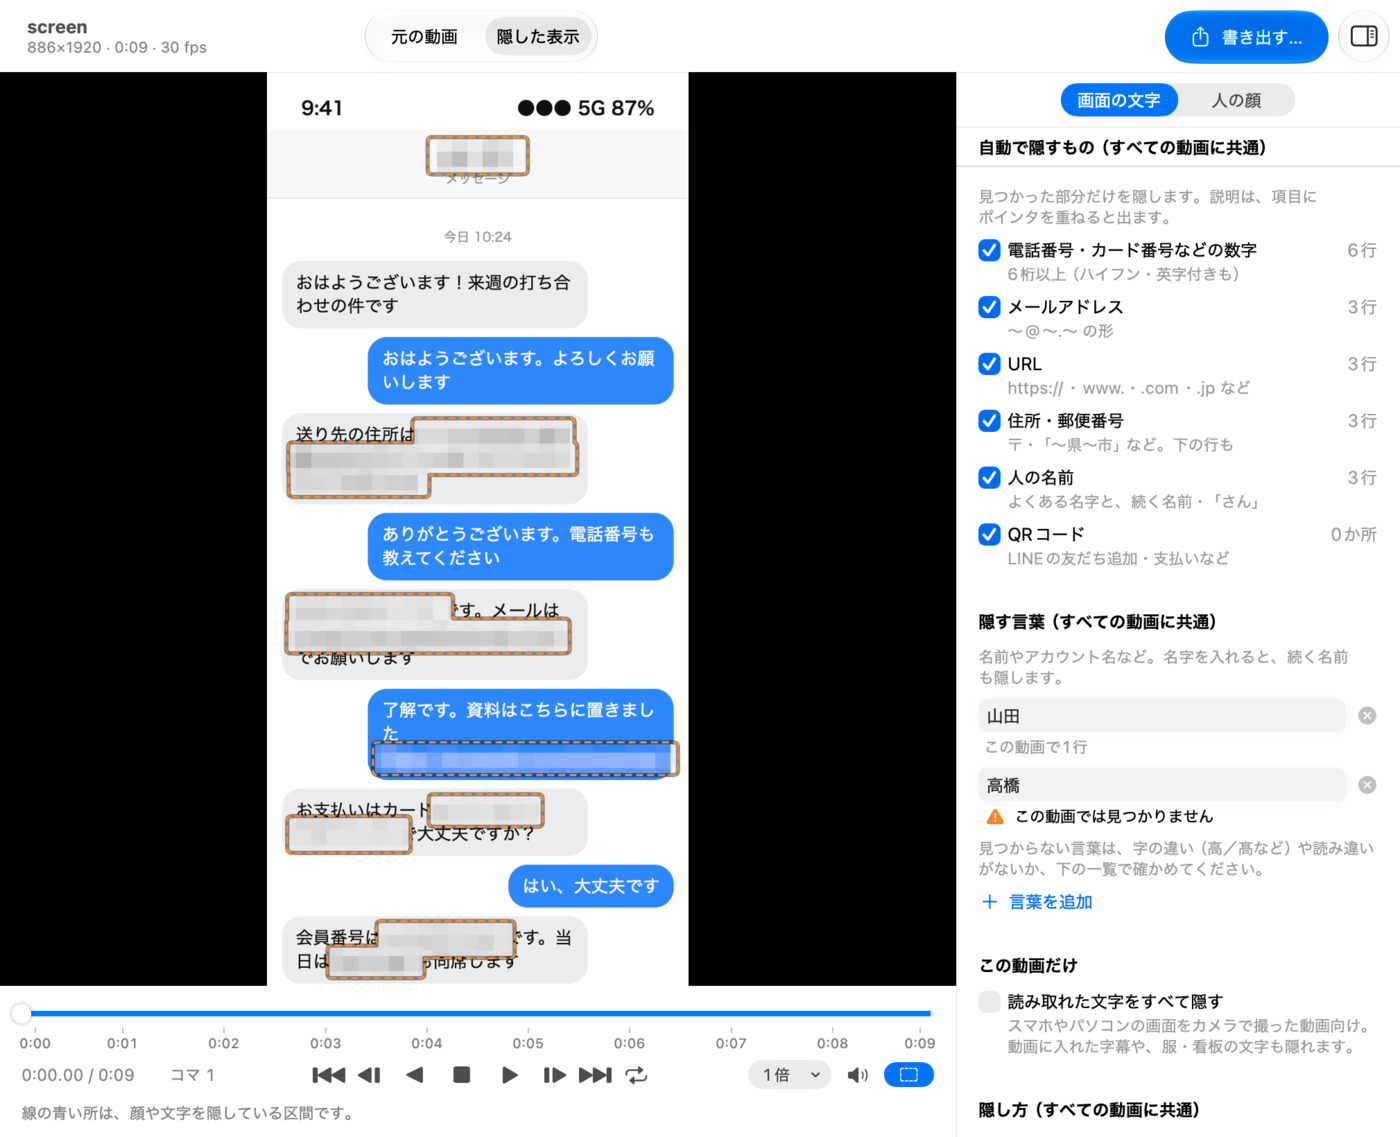
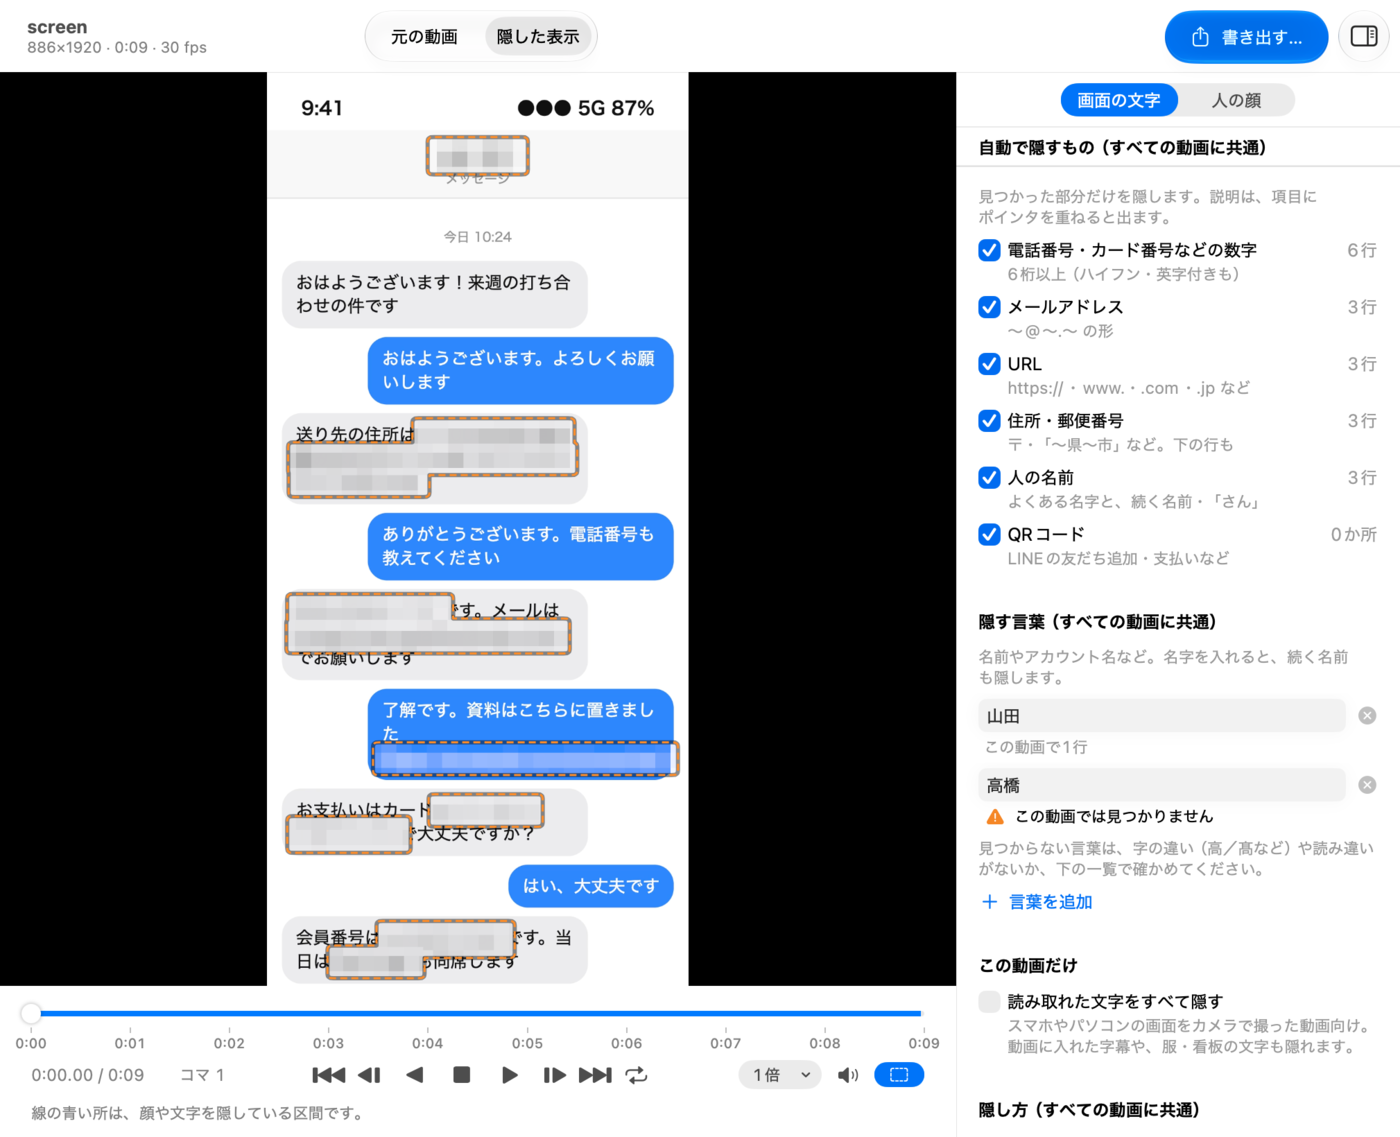
chore(release): v1.9.1 再生バーの端のずれを直し、右の欄の説明を減らす
版を 1.9.1（CFBundleVersion 14）に上げ、リリースノートを足す。
README のアプリ画面と画面の文字の画像を、新しい画面で撮り直す（架空データの
画面録画と、利用条件を確認済みの素材）。

diff --git a/.github/release-notes/v1.9.1.md b/.github/release-notes/v1.9.1.md
@@ -1,0 +1,20 @@
+再生バーの端のずれを直し、右の欄をさらにすっきりさせました。
+
+## 変わったこと
+
+- **再生バーの端のずれを直しました**：1.9 では、最初のコマで「0:00」の目盛りがつまみの横にずれ、線が最後の目盛りの先まで伸びていました。線・つまみ・目盛りの端をそろえました
+- **右の欄の説明をさらに減らしました**：「隠す人」の前置き、人ごとの「同じ人かも」の注意、「隠し方の調整」のスライダーの下の説明を短くしました。くわしい説明は、項目にポインタを重ねると出ます
+- **キーボードだけで操作しやすくしました**：「何を隠しますか？」は 1・2・3 で選べます。右の欄のタブは ⌥⌘1・⌥⌘2、一覧の前後の動画は ⌥⌘↑・⌥⌘↓ で切り替えられます
+- **読み上げ（VoiceOver）用の名前を直しました**：人ごとのボタンや切り替えに、何の操作かが分かる名前を付けました
+
+1.9 の内容（再生バーの作り直し、書き出す前から出る「確かめてほしい場面」など）は、[1.9 のリリースノート](https://github.com/mhimt-lab/mozaipoon/releases/tag/v1.9) をご覧ください。
+
+## ダウンロードと開き方
+
+1. 下の **Mozaipoon.zip** をダウンロードして開き、「モザイぷーん」を「アプリケーション」フォルダへ移す（前の版があれば置き換えます）
+2. 初めて開くときは「開いていません」という表示が出ます（Apple の公証を受けていないため）。表示は閉じてください
+3. 「システム設定」▸「プライバシーとセキュリティ」の下の方にある「このまま開く」を押すと開けます。2 回目からはふつうに開けます
+
+- 動作環境：macOS 26 以降。Apple シリコンと Intel の両方に対応（Intel の Mac での動作はまだ確かめていません）
+- 処理はすべてこの Mac の中で行い、動画や顔・文字・スタンプの画像はどこにも送信しません
+- 自動で見つからなかった顔や文字は隠れません。公開する前に、書き出した動画を必ず最後まで見て確かめてください
